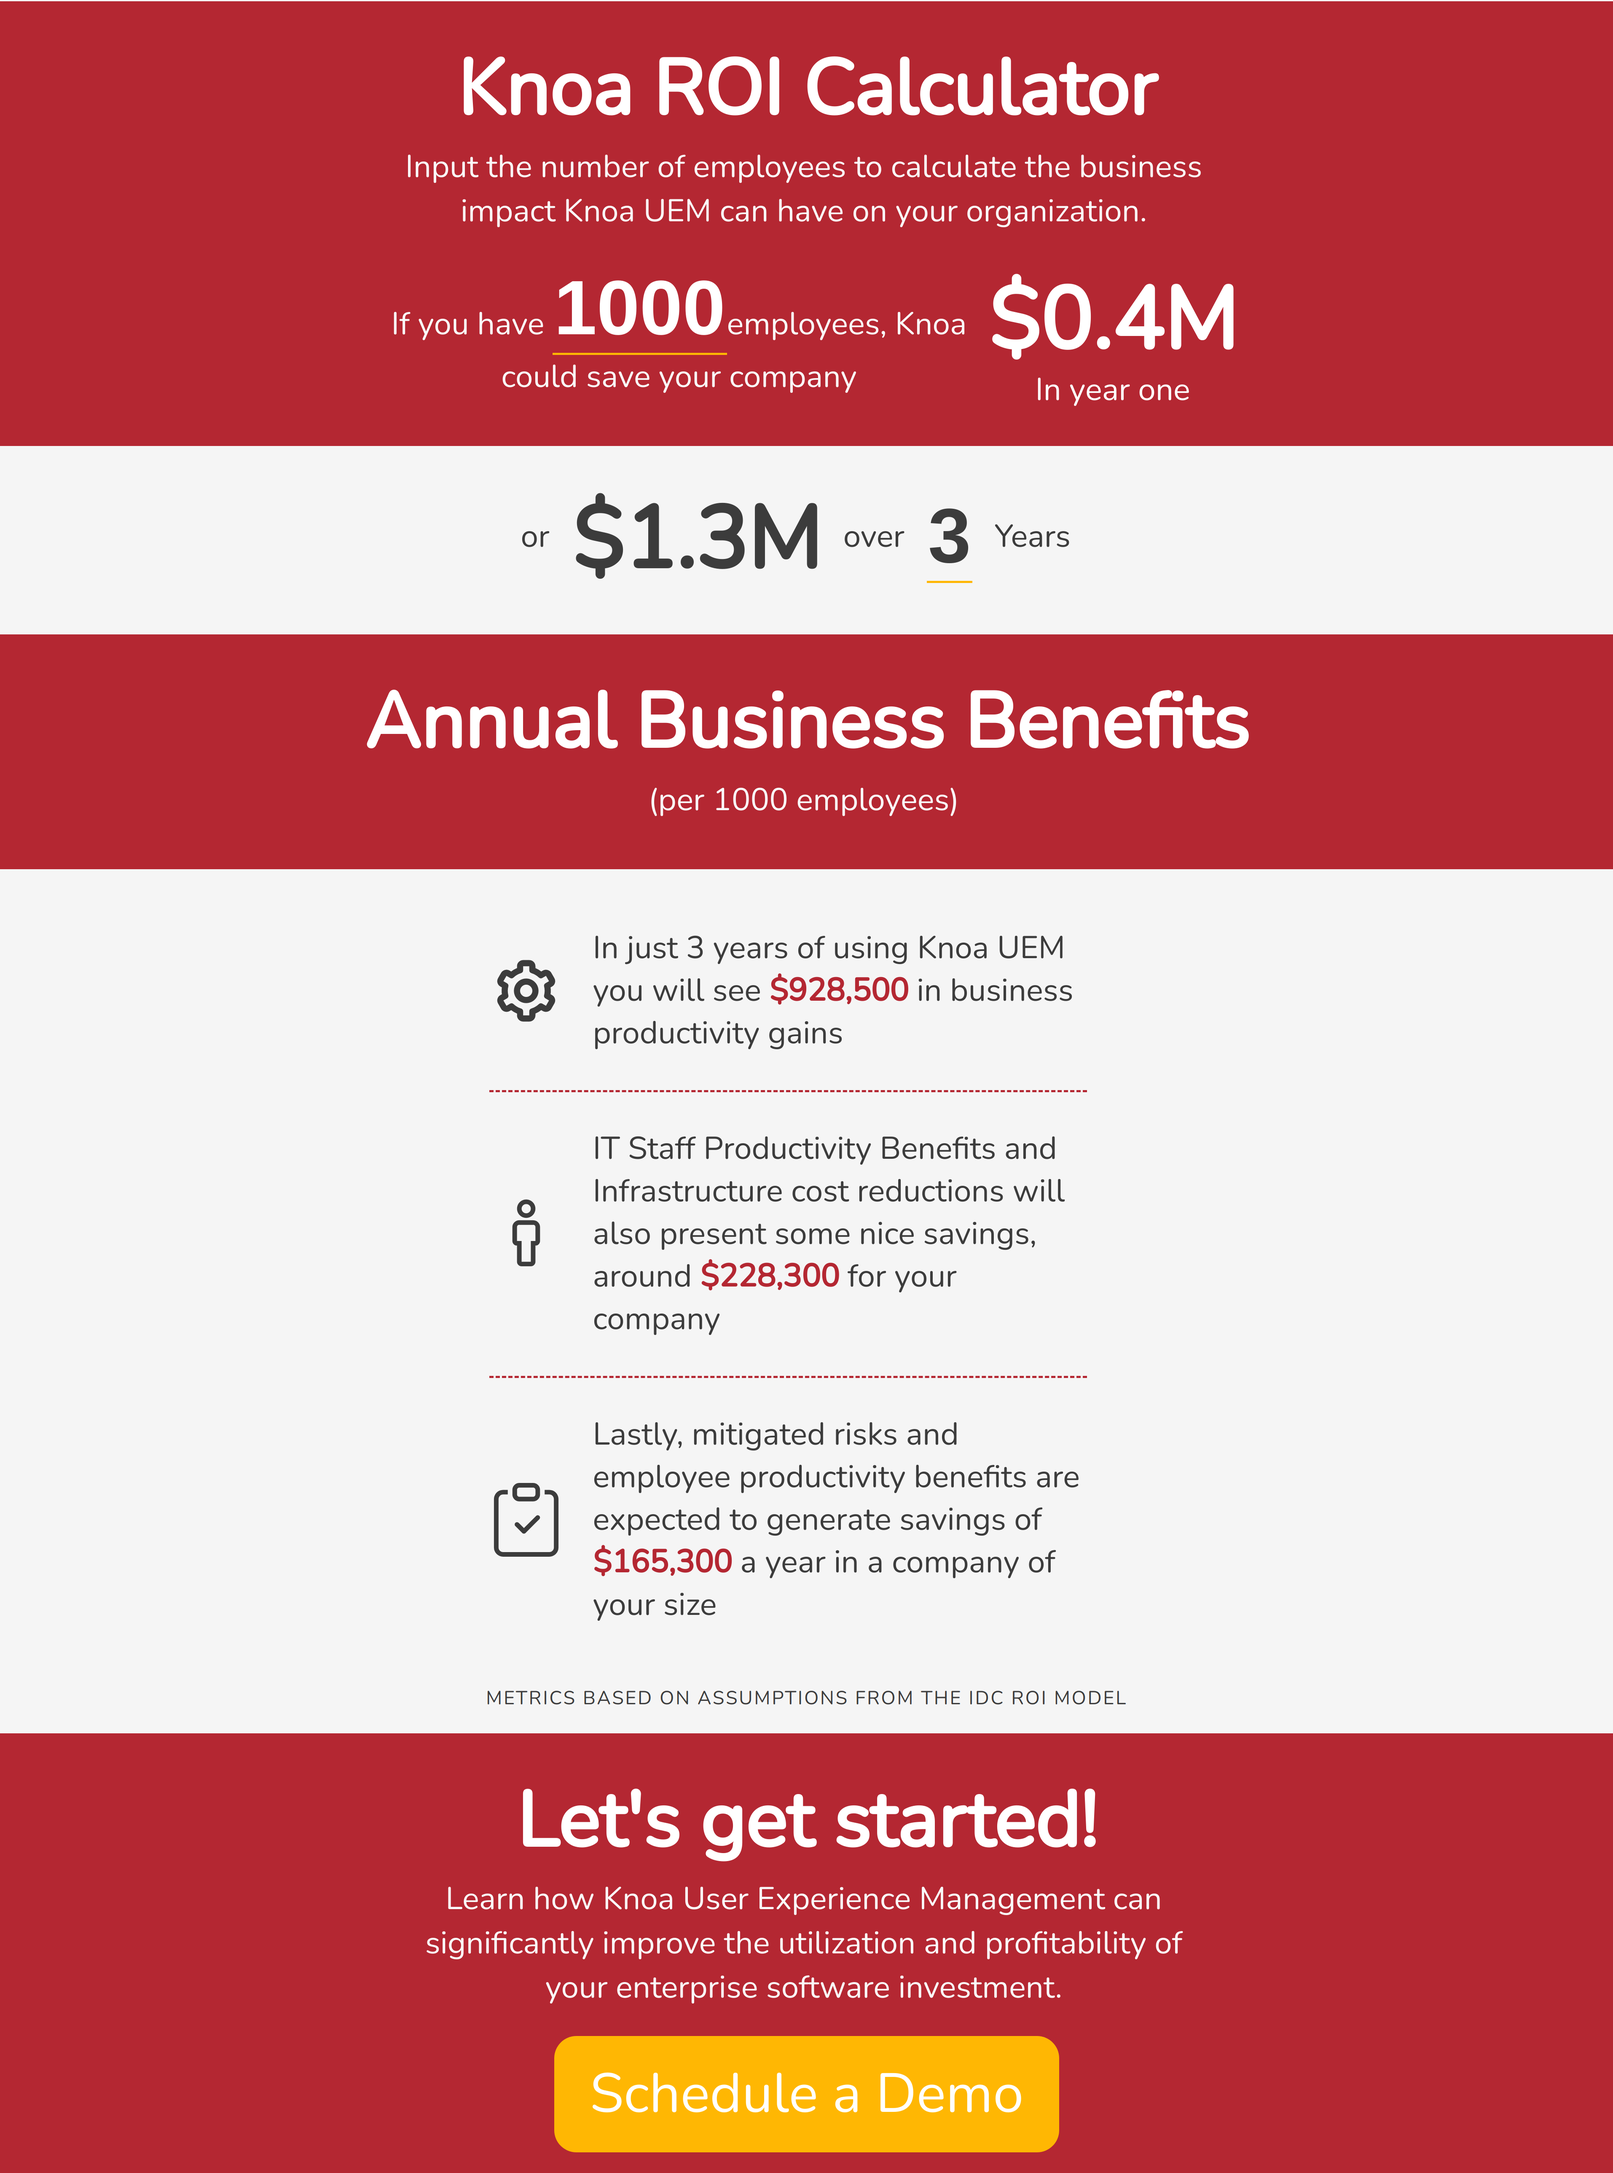
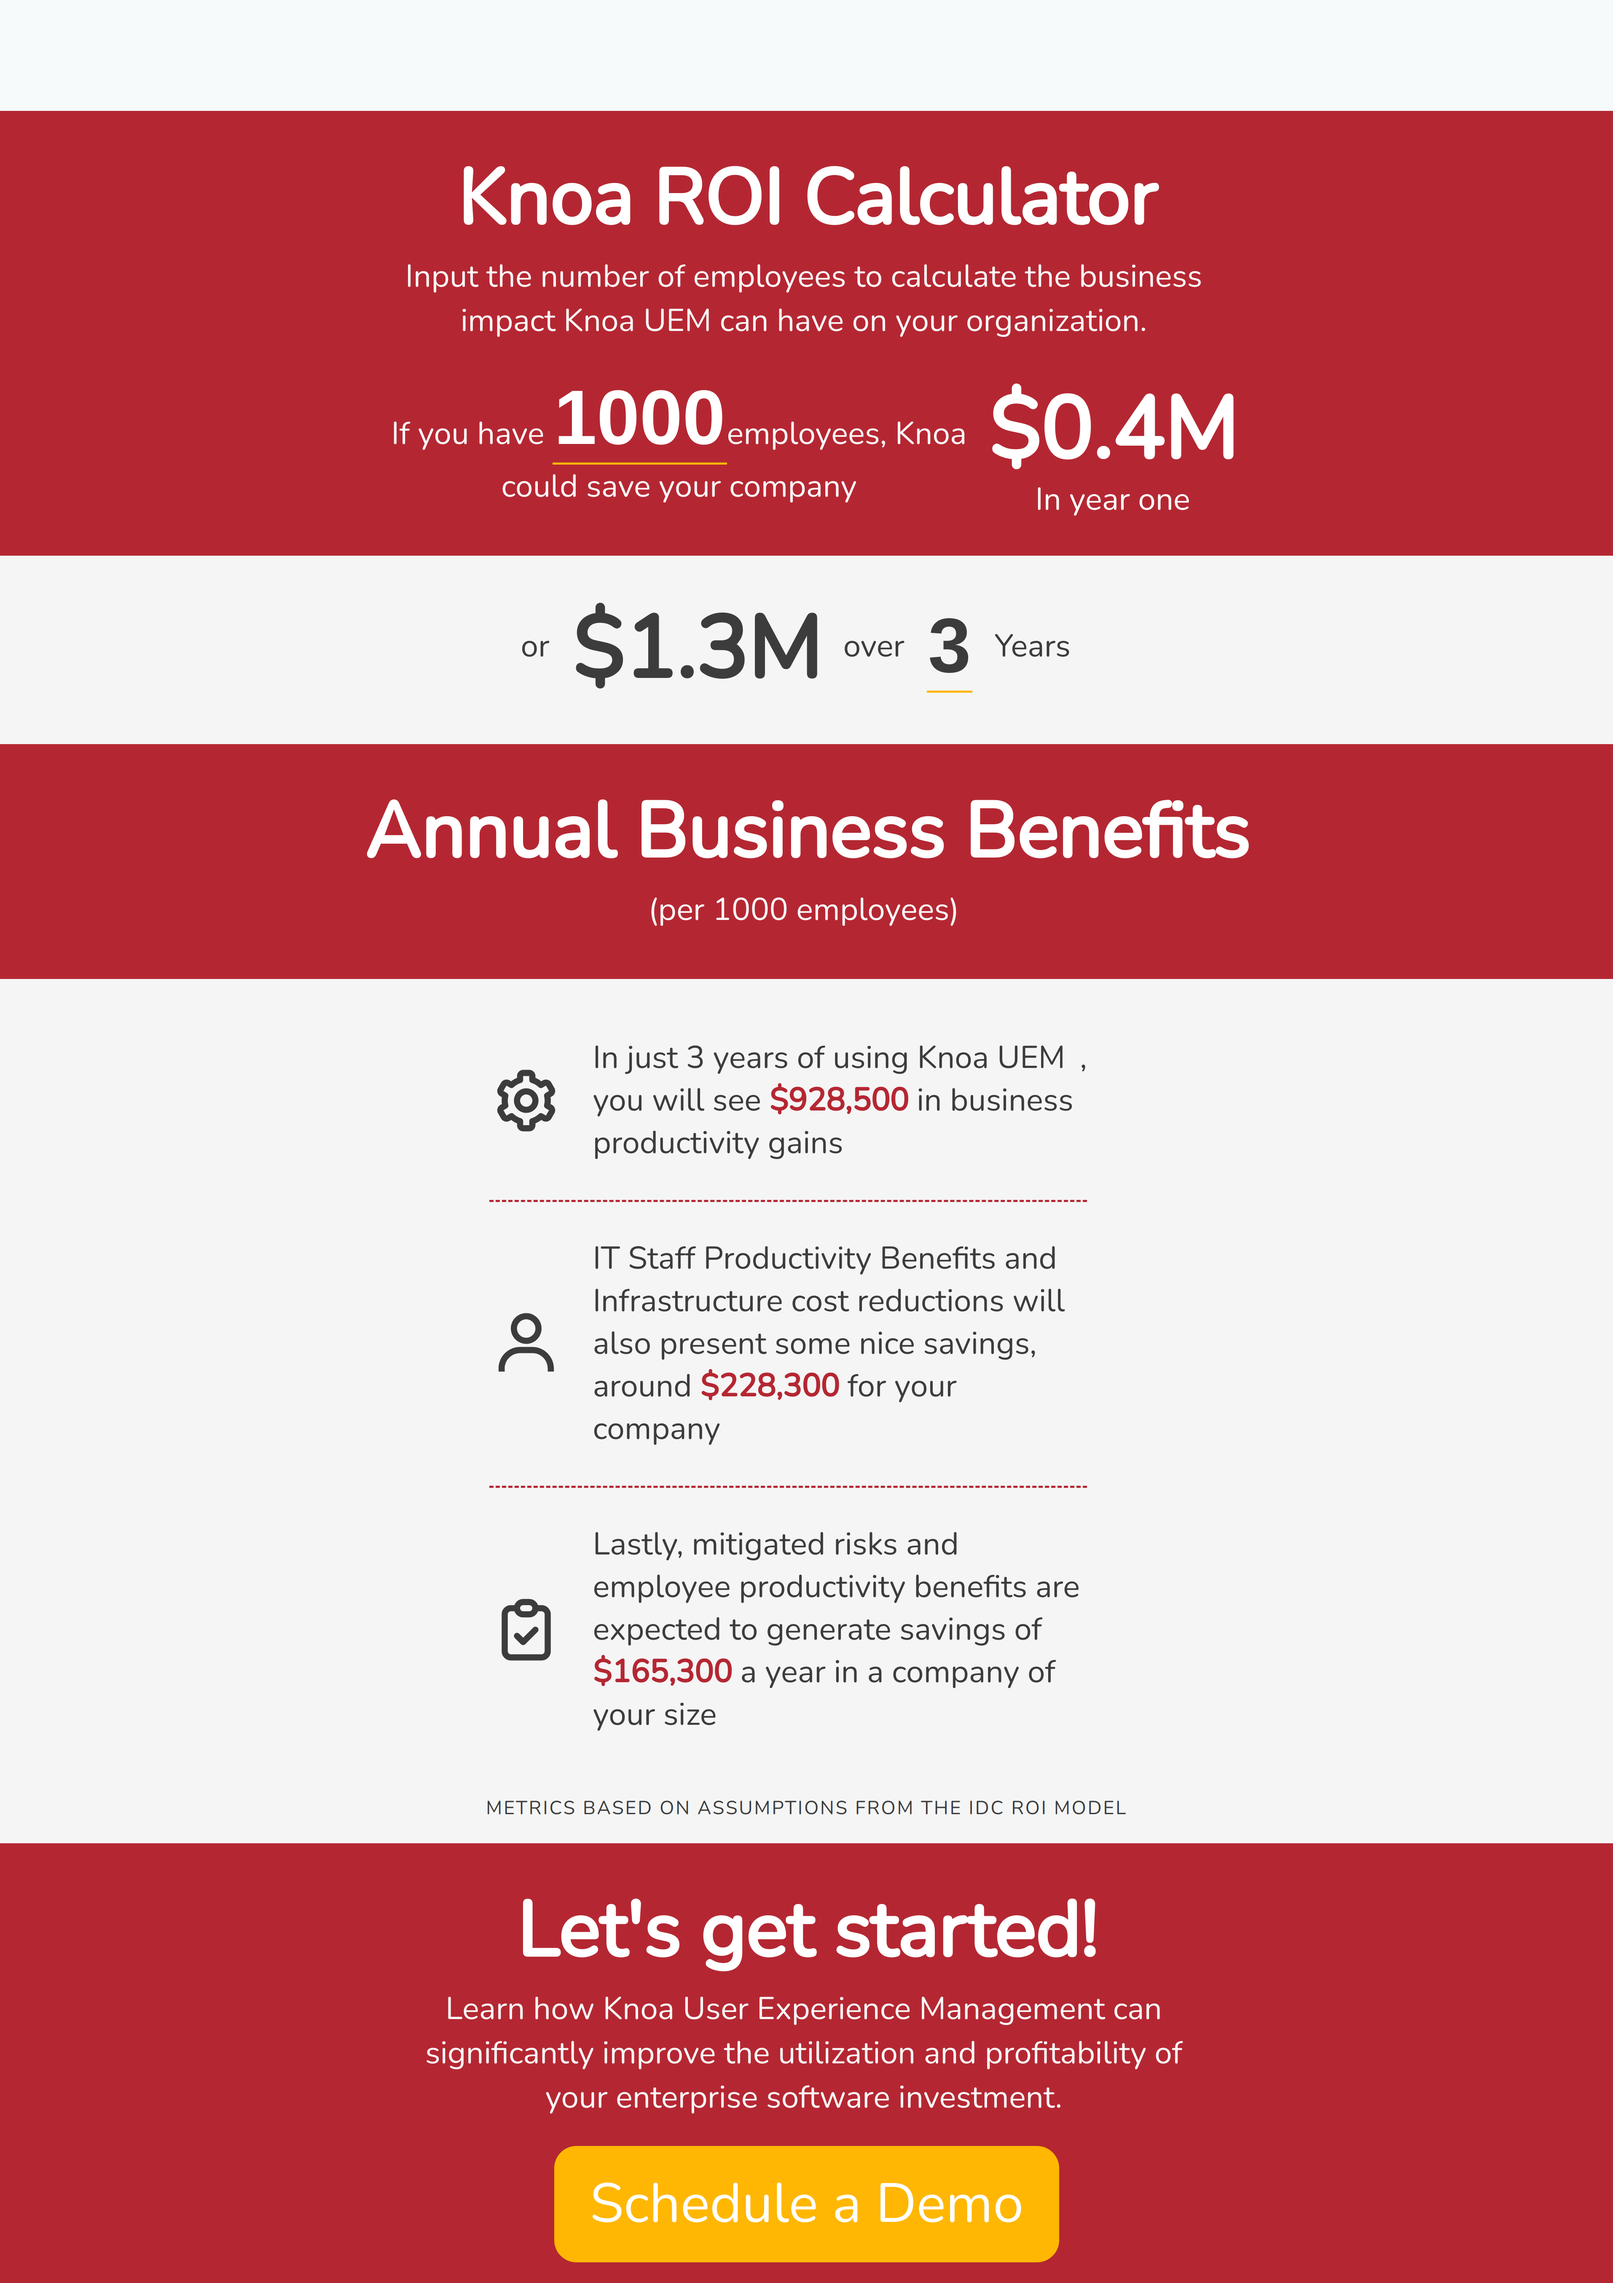
Remove iconify

Changed region(s): [[0.0, 0.0, 1.0, 0.9682], [0.3109, 0.5622, 0.342, 0.5934]]

diff --git a/src/direflow-components/knoa-roi-calculator/App.tsx b/src/direflow-components/knoa-roi-calculator/App.tsx
@@ -1,6 +1,7 @@
-import React, {FC, ReactNode} from 'react'
+import React, {FC} from 'react'
 import {pipe} from 'fp-ts/function'
-import {Icon} from '@iconify/react'
+import {BiCog, BiUser} from 'react-icons/bi'
+import {HiOutlineClipboardCheck} from 'react-icons/hi'
 import {
   Benefit,
   BenefitHelperText,
@@ -82,61 +83,45 @@ const App: FC = () => {
       </MainHero>
       <BenefitSection>
         <BenefitList>
-          {[
-            [
-              'Productivity Benefits',
-              <span>
-                In just {years} {years === 1 ? 'year' : 'years'} of using Knoa
-                UEM you will see{' '}
-                <em>
-                  $
-                  {pipe(
-                    productivityBenefits(years, employees),
-                    toCommaSeparated
-                  )}
-                </em>{' '}
-                in business productivity gains
-              </span>,
-              // @ts-ignore
-              <Icon icon="bx:bx-cog" />,
-            ],
-            [
-              'It Staff',
-              <span>
-                IT Staff Productivity Benefits and Infrastructure cost
-                reductions will also present some nice savings, around{' '}
-                <em>
-                  $
-                  {pipe(
-                    itStaffProductivityBenefits(years, employees),
-                    toCommaSeparated
-                  )}
-                </em>{' '}
-                for your company
-              </span>,
-              // @ts-ignore
-              <Icon icon="carbon:person" />,
-            ],
-            [
-              'Mitigated Risks',
-              <span>
-                Lastly, mitigated risks and employee productivity benefits are
-                expected to generate savings of{' '}
-                <em>
-                  ${pipe(riskMitigation(years, employees), toCommaSeparated)}
-                </em>{' '}
-                a year in a company of your size
-              </span>,
-              // @ts-ignore
-              <Icon icon="bi:clipboard-check" />,
-            ],
-            // @ts-ignore
-          ].map(([key, element, icon]: [string, ReactNode, ReactNode]) => (
-            <Benefit key={key}>
-              {icon}
-              {element}
-            </Benefit>
-          ))}
+          <Benefit>
+            <BiCog />
+            <span>
+              In just {years} {years === 1 ? 'year' : 'years'} of using Knoa UEM
+              you will see{' '}
+              <em>
+                $
+                {pipe(productivityBenefits(years, employees), toCommaSeparated)}
+              </em>{' '}
+              in business productivity gains
+            </span>
+            ,
+          </Benefit>
+          <Benefit>
+            <BiUser />
+            <span>
+              IT Staff Productivity Benefits and Infrastructure cost reductions
+              will also present some nice savings, around{' '}
+              <em>
+                $
+                {pipe(
+                  itStaffProductivityBenefits(years, employees),
+                  toCommaSeparated
+                )}
+              </em>{' '}
+              for your company
+            </span>
+          </Benefit>
+          <Benefit>
+            <HiOutlineClipboardCheck />
+            <span>
+              Lastly, mitigated risks and employee productivity benefits are
+              expected to generate savings of{' '}
+              <em>
+                ${pipe(riskMitigation(years, employees), toCommaSeparated)}
+              </em>{' '}
+              a year in a company of your size
+            </span>
+          </Benefit>
         </BenefitList>
         <BenefitHelperText>
           Metrics based on assumptions from the IDC ROI model
